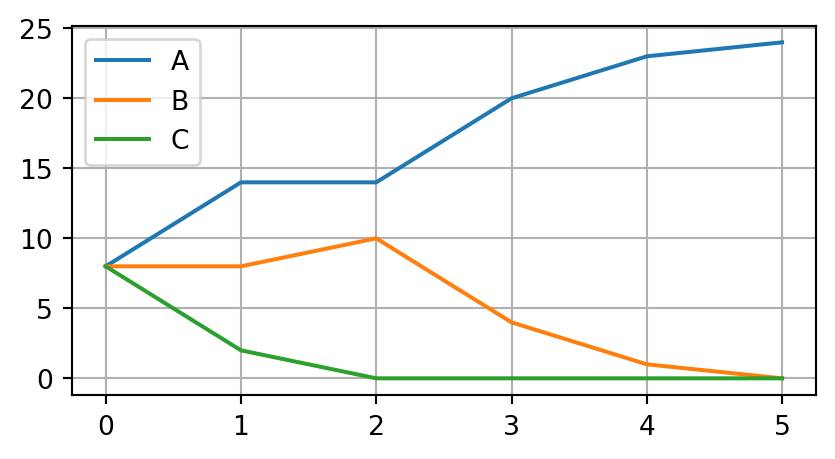
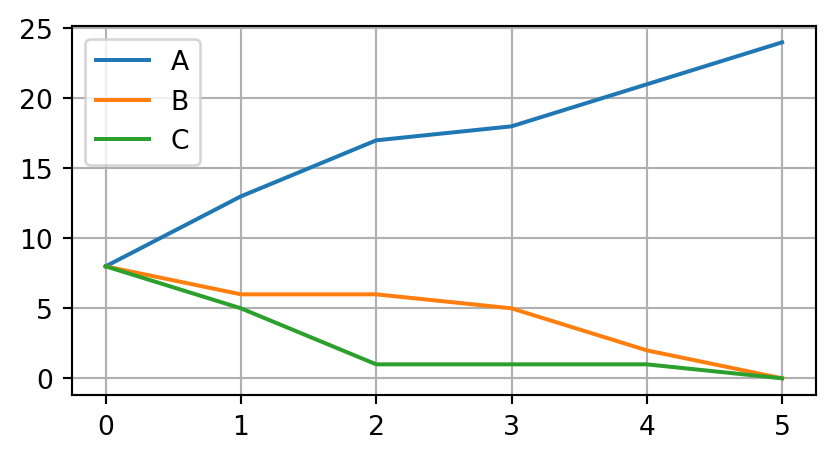
update

diff --git a/RepliWeb/_site/index.html b/RepliWeb/_site/index.html
@@ -296,7 +296,7 @@ Concept by <a href="https://eliamascolo.github.io/">Elia Mascolo</a> and <a href
 </section>
 <section id="recording-results" class="level3">
 <h3 class="anchored" data-anchor-id="recording-results">Recording results</h3>
-<p>For each generation, the pile of <em>template</em> cards was collected (the “generation record”). Therefore, we had one pile of <span class="math inline">\(N\)</span> cards per generation (where <span class="math inline">\(N\)</span> is the number of students in the class). For each pile, the number of copies of each type of pattern was counted. Translated or rotated patterns count as the same pattern (see Fig XXX).</p>
+<p>For each generation, the pile of <em>template</em> cards was collected (the “generation record”). Therefore, we had one pile of <span class="math inline">\(N\)</span> cards per generation (where <span class="math inline">\(N\)</span> is the number of students in the class). For each pile, the number of copies of each type of pattern was counted. Translated or rotated patterns count as the same pattern (see Fig 3).</p>
 <p>The obtained counts were organized into a table.</p>
 <hr>
 </section>
@@ -343,7 +343,7 @@ Concept by <a href="https://eliamascolo.github.io/">Elia Mascolo</a> and <a href
 </tbody>
 </table>
 <p>We can also visualize the number of <strong>A</strong>, <strong>B</strong> and <strong>C</strong> over generations through a line plot as follows.</p>
-<div id="78dd2974" class="cell" data-execution_count="1">
+<div id="bfd0f139" class="cell" data-execution_count="1">
 <div class="sourceCode cell-code" id="cb1"><pre class="sourceCode python code-with-copy"><code class="sourceCode python"><span id="cb1-1"><a href="#cb1-1" aria-hidden="true" tabindex="-1"></a><span class="im">import</span> matplotlib.pyplot <span class="im">as</span> plt</span>
 <span id="cb1-2"><a href="#cb1-2" aria-hidden="true" tabindex="-1"></a>plt.rcParams[<span class="st">'figure.figsize'</span>] <span class="op">=</span> [<span class="dv">5</span>, <span class="fl">2.5</span>]</span>
 <span id="cb1-3"><a href="#cb1-3" aria-hidden="true" tabindex="-1"></a>plt.plot([<span class="dv">8</span>, <span class="dv">16</span>, <span class="dv">21</span>], label<span class="op">=</span><span class="st">'A'</span>)</span>
@@ -480,7 +480,7 @@ Concept by <a href="https://eliamascolo.github.io/">Elia Mascolo</a> and <a href
 <li><code>create</code> : a function that can be used to generate the initial population. It requires to specify three parameters: (1) the type of organism, i.e., whatever name that identifies that type; (2) the (expected) reproductive success of that type of organism; (3) the number of organisms of that type that must be created.</li>
 </ul>
 <p>We import the needed code from the <code>replicards</code> library, as well as the <code>random</code> library as follows</p>
-<div id="a076f995" class="cell" data-execution_count="2">
+<div id="6fa52b5d" class="cell" data-execution_count="2">
 <div class="sourceCode cell-code" id="cb2"><pre class="sourceCode python code-with-copy"><code class="sourceCode python"><span id="cb2-1"><a href="#cb2-1" aria-hidden="true" tabindex="-1"></a><span class="im">import</span> random</span>
 <span id="cb2-2"><a href="#cb2-2" aria-hidden="true" tabindex="-1"></a><span class="im">from</span> evo_sim_objects <span class="im">import</span> Population, create</span></code><button title="Copy to Clipboard" class="code-copy-button"><i class="bi"></i></button></pre></div>
 </div>
@@ -489,13 +489,13 @@ Concept by <a href="https://eliamascolo.github.io/">Elia Mascolo</a> and <a href
 <h3 class="anchored" data-anchor-id="settings">Settings</h3>
 <p>We can now set the initial condition (the population at “Generation 0”) for our evolutionary simulation.</p>
 <p>First, we set how many “organisms” per type are present at the beginning. Here we simulate the in-class experiment by setting three patterns, 8 copies each, for a total population size of <span class="math inline">\(N=24\)</span>.</p>
-<div id="c50a74e1" class="cell" data-execution_count="3">
+<div id="cae18808" class="cell" data-execution_count="3">
 <div class="sourceCode cell-code" id="cb3"><pre class="sourceCode python code-with-copy"><code class="sourceCode python"><span id="cb3-1"><a href="#cb3-1" aria-hidden="true" tabindex="-1"></a>n_a <span class="op">=</span> <span class="dv">8</span>  <span class="co"># Initial number of A</span></span>
 <span id="cb3-2"><a href="#cb3-2" aria-hidden="true" tabindex="-1"></a>n_b <span class="op">=</span> <span class="dv">8</span>  <span class="co"># Initial number of B</span></span>
 <span id="cb3-3"><a href="#cb3-3" aria-hidden="true" tabindex="-1"></a>n_c <span class="op">=</span> <span class="dv">8</span>  <span class="co"># Initial number of C</span></span></code><button title="Copy to Clipboard" class="code-copy-button"><i class="bi"></i></button></pre></div>
 </div>
 <p>Next, we can decide how easy it will be to replicate each type of pattern, by setting the expected (average) number of copies each pattern get at each generation.</p>
-<div id="63264151" class="cell" data-execution_count="4">
+<div id="6471efe5" class="cell" data-execution_count="4">
 <div class="sourceCode cell-code" id="cb4"><pre class="sourceCode python code-with-copy"><code class="sourceCode python"><span id="cb4-1"><a href="#cb4-1" aria-hidden="true" tabindex="-1"></a>w_a <span class="op">=</span> <span class="dv">12</span>  <span class="co"># Expected number of offspring for A per generation</span></span>
 <span id="cb4-2"><a href="#cb4-2" aria-hidden="true" tabindex="-1"></a>w_b <span class="op">=</span>  <span class="dv">8</span>  <span class="co"># Expected number of offspring for B per generation</span></span>
 <span id="cb4-3"><a href="#cb4-3" aria-hidden="true" tabindex="-1"></a>w_c <span class="op">=</span>  <span class="dv">4</span>  <span class="co"># Expected number of offspring for C per generation</span></span></code><button title="Copy to Clipboard" class="code-copy-button"><i class="bi"></i></button></pre></div>
@@ -504,7 +504,7 @@ Concept by <a href="https://eliamascolo.github.io/">Elia Mascolo</a> and <a href
 <section id="run-the-evolutionary-simulation" class="level3">
 <h3 class="anchored" data-anchor-id="run-the-evolutionary-simulation">Run the evolutionary simulation</h3>
 <p>We are now ready to run a computer simulation.</p>
-<div id="21d7287d" class="cell" data-execution_count="5">
+<div id="d3e20ed9" class="cell" data-execution_count="5">
 <div class="sourceCode cell-code" id="cb5"><pre class="sourceCode python code-with-copy"><code class="sourceCode python"><span id="cb5-1"><a href="#cb5-1" aria-hidden="true" tabindex="-1"></a><span class="co"># Initialize population</span></span>
 <span id="cb5-2"><a href="#cb5-2" aria-hidden="true" tabindex="-1"></a>pop <span class="op">=</span> Population(create(<span class="st">'A'</span>, w_a, n_a) <span class="op">+</span></span>
 <span id="cb5-3"><a href="#cb5-3" aria-hidden="true" tabindex="-1"></a>                 create(<span class="st">'B'</span>, w_b, n_b) <span class="op">+</span></span>
